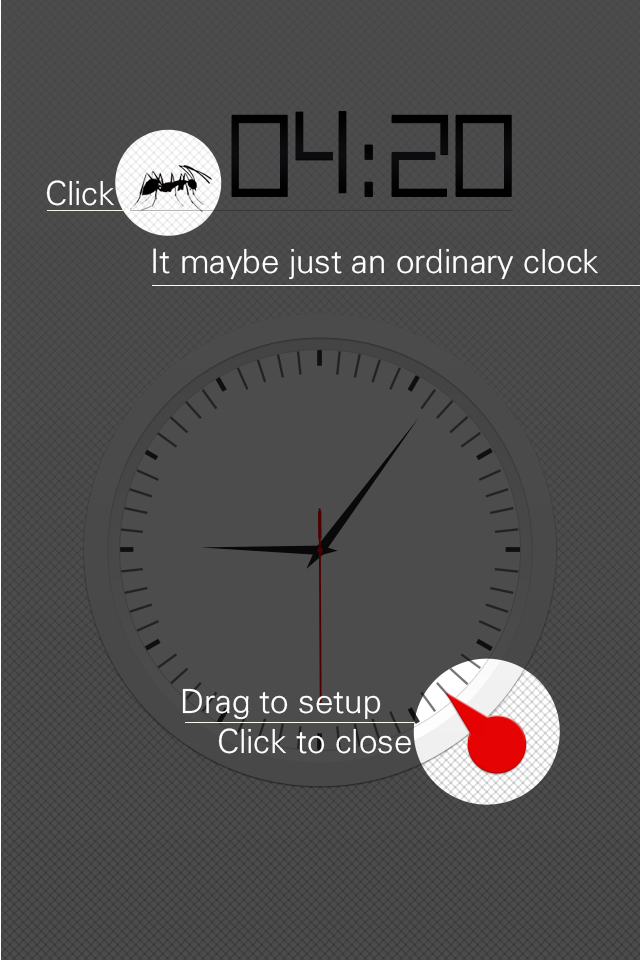
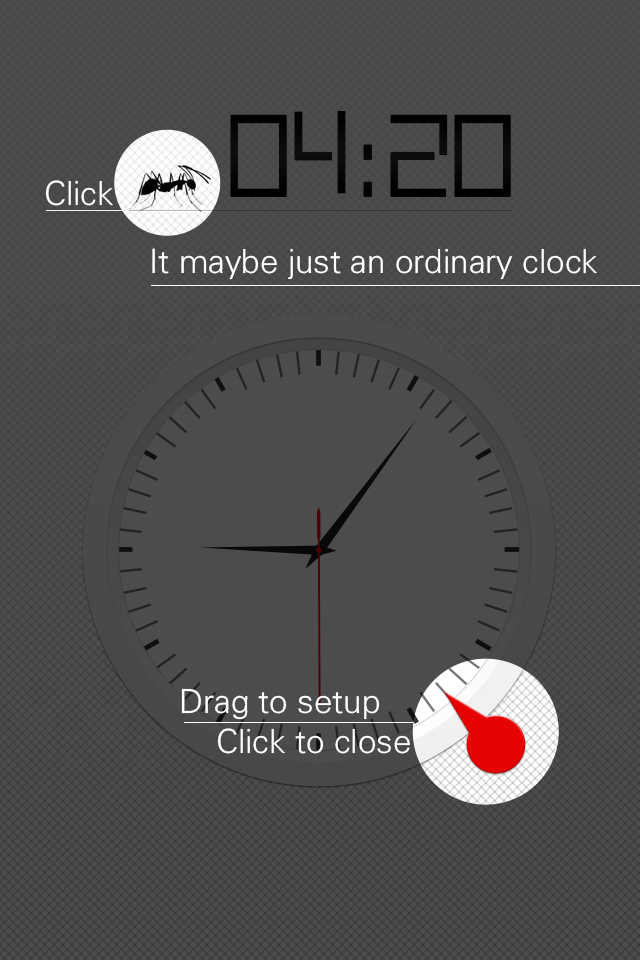
1.try to fix the precision bug of alarmHandler on OCD model, but seems not perfect. 2.Now if user kill the app when alarm is playing, the alarm will be started again in one minute later. 3.Change Number images.

diff --git a/KillAntsAlarm/KillAntsAlarmViewController.m b/KillAntsAlarm/KillAntsAlarmViewController.m
@@ -150,6 +150,7 @@
 }
 
 -(void)tapAnt:(UITapGestureRecognizer *)recognizer{
+    _antImageView.userInteractionEnabled = NO;
     if(_ocdOn){
         [self setOcdON:NO];
         [UIView animateWithDuration:1
@@ -163,11 +164,12 @@
 //                             _ocdBallImageView.transform = CGAffineTransformMakeTranslation(0, -68);
                          } completion:^(BOOL finished){
                              _ocdBallImageView.hidden = YES;
+                             _antImageView.userInteractionEnabled = YES;
                          }];
     }else{
         _ocdBallImageView.hidden = NO;
         [self setOcdON:YES];
-        [UIView animateWithDuration:1
+        [UIView animateWithDuration:0.5
                               delay:0
                             options:UIViewAnimationOptionCurveEaseIn
                          animations:^{
@@ -178,6 +180,7 @@
                          } completion:^(BOOL finished){
                              AudioServicesPlaySystemSound(ocdSound);
                              _antImageView.image = _ocdAntImage;
+                             _antImageView.userInteractionEnabled = YES;
                          }];
     }
     KillAntsAlarmAppDelegate *appDelegate = [[UIApplication sharedApplication] delegate];
@@ -247,9 +250,9 @@
     }else if(recognizer.state == UIGestureRecognizerStateEnded){
         if(recognizer.view.tag == ALARMHANDLER_TAG){
             CGFloat radians = atan2(_container.transform.b, _container.transform.a) + M_PI;
-            CGFloat currentTime = [self convertRadiansToTimeWithNoCalibrate:[self calibrateRadians:radians]];
+//            CGFloat currentTime = [self convertRadiansToTimeWithNoCalibrate:[self calibrateRadians:radians]];
             [self saveElementsToAlarmHandlerFile:[NSString stringWithFormat:@"%f",radians] forKey:@"lastPosition"];
-            [self setAlarm:currentTime];
+            [self setAlarm:NO];
         }
     }else if(recognizer.state == UIGestureRecognizerStateChanged){
         if(recognizer.view.tag == ALARMHANDLER_TAG && alarmHandlerTouchedFlag){
@@ -260,23 +263,29 @@
                 float angleDifference = curAngle - prevAngle;
                 if(_ocdOn){
                     _deltaAngle += angleDifference;
-                    if(_deltaAngle > (M_PI * 2 / 144) || _deltaAngle < -(M_PI * 2 / 144)){
-                        if (_deltaAngle > 0) {
-                            if(firstOcdOn){
-                                angleDifference = ((int)index + 1 - index) * (M_PI * 2 / 144);
-                                firstOcdOn = NO;
-                            }else
-                                angleDifference = (int)(angleDifference / (M_PI * 2 / 144) + 1) * (M_PI * 2 / 144);
+                    if(firstOcdOn){
+                        if(_deltaAngle >= ((int)index + 1 - index) * (M_PI * 2 / 144)){
+                            firstOcdOn = NO;
+                            _deltaAngle = 0;
+                            angleDifference = ((int)index + 1 - index) * (M_PI * 2 / 144);
+                        }else if(_deltaAngle <= ((int)index - index) * (M_PI * 2 / 144)){
+                            angleDifference = ((int)index - index) * (M_PI * 2 / 144);
+                            _deltaAngle = 0;
+                            firstOcdOn = NO;
                         }else{
-                            if(firstOcdOn){
-                                angleDifference = ((int)index - index) * (M_PI * 2 / 144);
-                                firstOcdOn = NO;
-                            }else
-                                angleDifference = (int)(angleDifference / (M_PI * 2 / 144) - 1) * (M_PI * 2 / 144);
+                            angleDifference = 0;
                         }
-                        _deltaAngle = 0;
                     }else{
-                        angleDifference = 0;
+                        if(_deltaAngle > (M_PI * 2 / 144) || _deltaAngle < -(M_PI * 2 / 144)){
+                            if (_deltaAngle > 0) {
+                                angleDifference = (int)(angleDifference / (M_PI * 2 / 144) + 1) * (M_PI * 2 / 144);
+                            }else{
+                                angleDifference = (int)(angleDifference / (M_PI * 2 / 144) - 1) * (M_PI * 2 / 144);
+                            }
+                            _deltaAngle = 0;
+                        }else{
+                            angleDifference = 0;
+                        }
                     }
                 }
                 if(angleDifference != 0){
@@ -368,19 +377,33 @@
     return [calendar dateFromComponents:dateComponents];
 }
 
--(void)setAlarm:(CGFloat)dateInFloat{
-    NSDateComponents *dateComponents = [[NSCalendar currentCalendar] components:(NSHourCalendarUnit | NSMinuteCalendarUnit | NSSecondCalendarUnit) fromDate:[NSDate date]];
-    int minute = [dateComponents minute];
-    int hour = [dateComponents hour];
-    
-    if(alarmHour >= hour && alarmMinute > minute){
-        alarmNewDay = 0;
-    }else
-        alarmNewDay = 1;
-    
-    NSDate *notificationDate = [self getDate:alarmNewDay hour:alarmHour minute:alarmMinute second:0];
-    NSDate *invisibleNotiOneDate = [self getDate:alarmNewDay hour:alarmHour minute:alarmMinute second:30];
-    NSDate *invisibleNotiTwoDate = [self getDate:alarmNewDay hour:alarmHour minute:alarmMinute + 1 second:0];
+-(void)setAlarm:(BOOL)now{
+    NSDate *invisibleNotiTwoDate;
+    NSDate *invisibleNotiOneDate;
+    NSDate *notificationDate;
+    if (now && !_player.playing) {
+        return;
+    }else if(now && _player.playing){
+        NSDateComponents *dateComponents = [[NSCalendar currentCalendar] components:(NSHourCalendarUnit | NSMinuteCalendarUnit | NSSecondCalendarUnit) fromDate:[NSDate date]];
+        int minute = [dateComponents minute] + 1;
+        int hour = [dateComponents hour];
+        notificationDate = [self getDate:0 hour:hour minute:minute second:0];
+        invisibleNotiOneDate = [self getDate:0 hour:hour minute:minute second:30];
+        invisibleNotiTwoDate = [self getDate:0 hour:hour minute:minute + 1 second:0];
+    }else{
+        NSDateComponents *dateComponents = [[NSCalendar currentCalendar] components:(NSHourCalendarUnit | NSMinuteCalendarUnit | NSSecondCalendarUnit) fromDate:[NSDate date]];
+        int minute = [dateComponents minute];
+        int hour = [dateComponents hour];
+        
+        if(alarmHour >= hour && alarmMinute > minute){
+            alarmNewDay = 0;
+        }else
+            alarmNewDay = 1;
+        
+        notificationDate = [self getDate:alarmNewDay hour:alarmHour minute:alarmMinute second:0];
+        invisibleNotiOneDate = [self getDate:alarmNewDay hour:alarmHour minute:alarmMinute second:30];
+        invisibleNotiTwoDate = [self getDate:alarmNewDay hour:alarmHour minute:alarmMinute + 1 second:0];        
+    }
     if(!localNotif){
         [[UIApplication sharedApplication] cancelAllLocalNotifications];
         localNotif = [[UILocalNotification alloc] init];
@@ -480,7 +503,7 @@
         [numberImage setFrame:frame];
         positionValue += frame.size.width - 13;
         if(i == 2){
-            positionValue += 10;
+            positionValue += 7;
         }
         [_digitalAlarmView addSubview:numberImage];
     }

diff --git a/KillAntsAlarm/KillAntsAlarmAppDelegate.m b/KillAntsAlarm/KillAntsAlarmAppDelegate.m
@@ -93,6 +93,8 @@
 
 - (void)applicationWillTerminate:(UIApplication *)application
 {
+    KillAntsAlarmViewController *frontViewcontroller = _viewController.frontViewController;
+    [frontViewcontroller setAlarm:YES];
     // Called when the application is about to terminate. Save data if appropriate. See also applicationDidEnterBackground:.
 }
 

diff --git a/KillAntsAlarm/RevealController.m b/KillAntsAlarm/RevealController.m
@@ -93,7 +93,7 @@
 
 - (BOOL)shouldAutorotateToInterfaceOrientation:(UIInterfaceOrientation)interfaceOrientation
 {
-	return (interfaceOrientation != UIInterfaceOrientationPortraitUpsideDown);
+	return NO;
 }
 
 @end

diff --git a/KillAntsAlarm/KillAntsAlarmViewController.h b/KillAntsAlarm/KillAntsAlarmViewController.h
@@ -31,4 +31,5 @@
 @property (strong, nonatomic) AVAudioPlayer *player;
 -(void)setOcdON:(BOOL)ocdOn;
 -(void)startAlarm;
+-(void)setAlarm:(BOOL)now;
 @end
